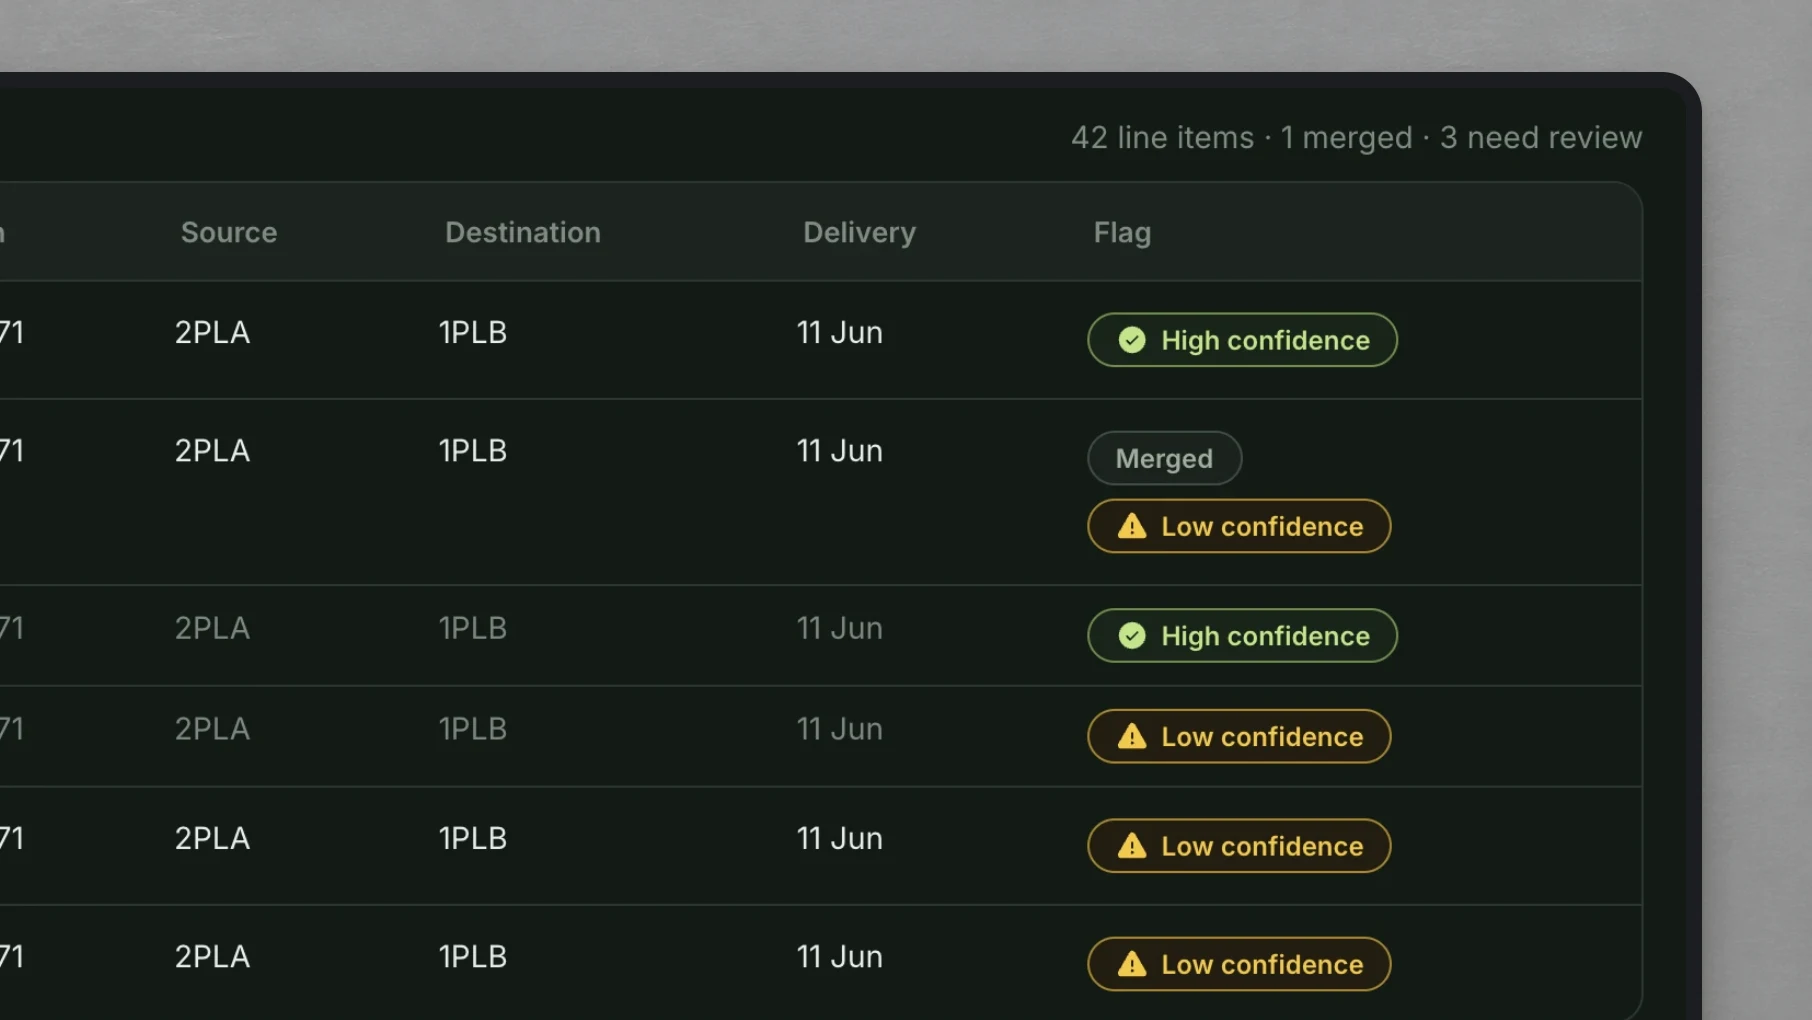
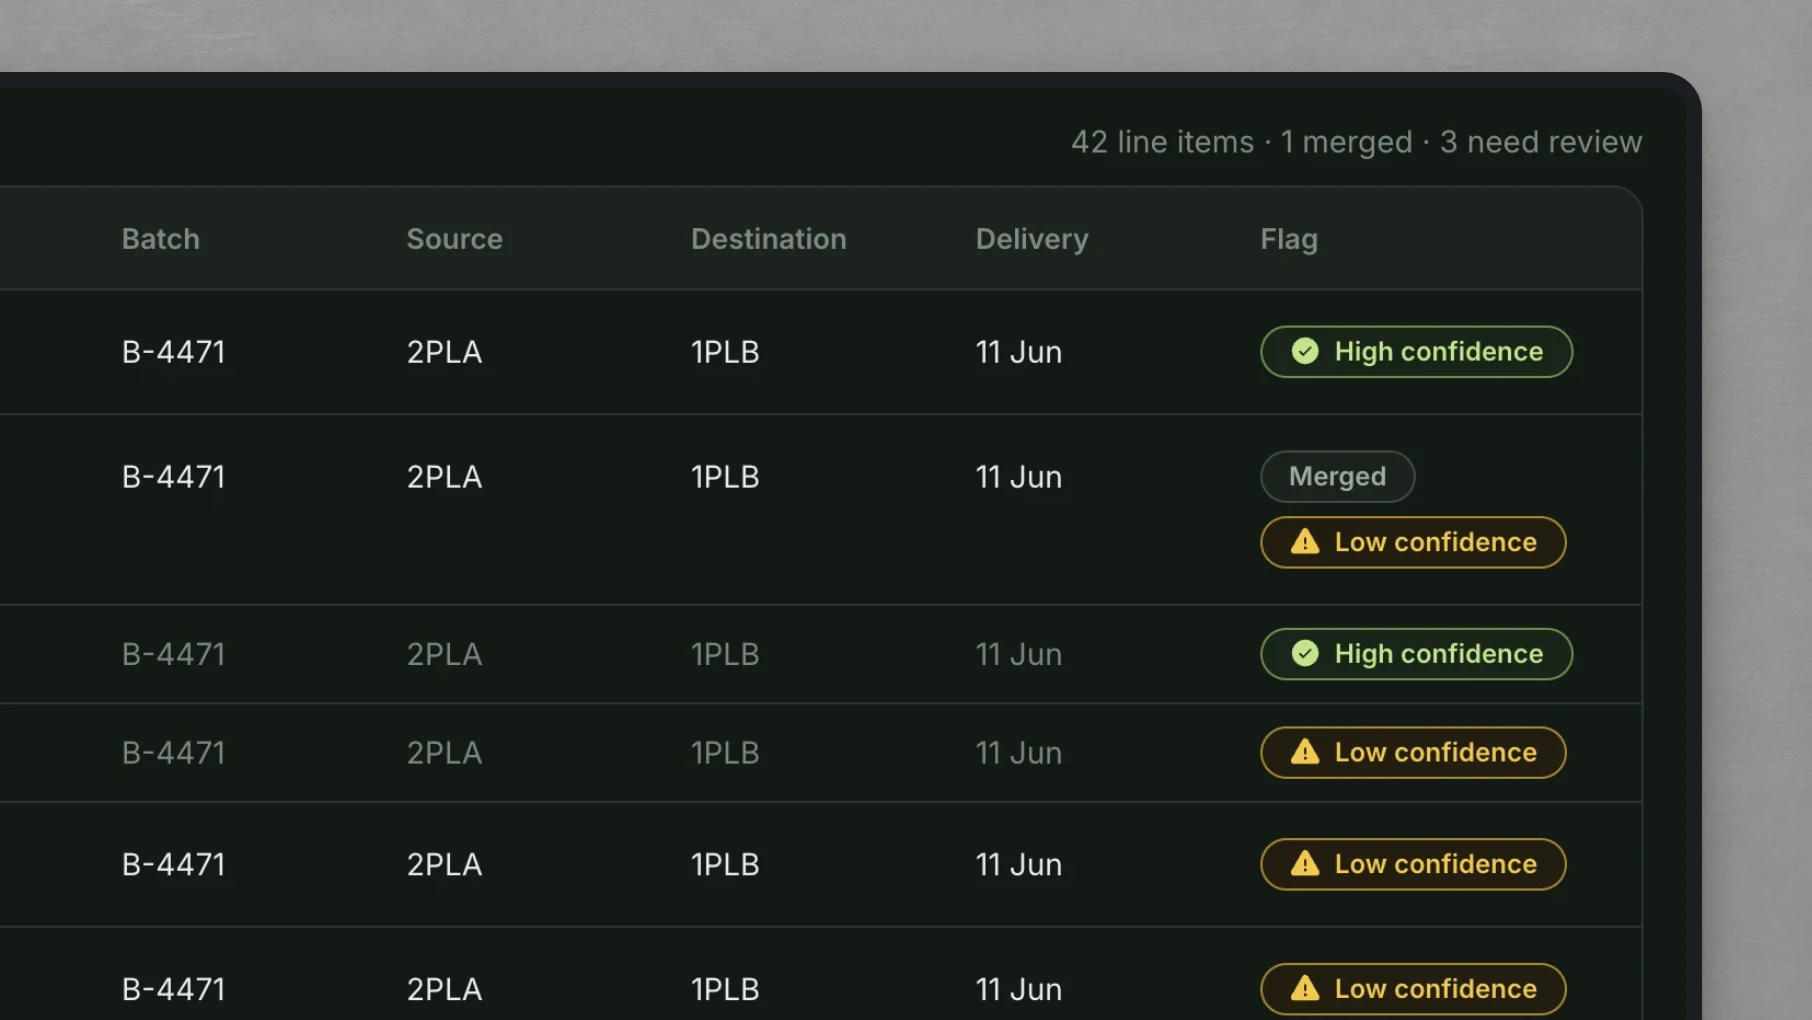
Homepage: the STO card shows the aligned review table
Asset swap. img/sto/card-bench.webp is re-rendered from the review
capture #1145 retook, on the same steel bench, tablet frame and crop, so
the card's headings start where their data does. Same 1812x1020; the
crop now opens on the Batch column rather than cutting it. ?v=2 -> 3.

resting.mjs and states.mjs on index.html pass at 1502 and 472 before
and after; the fast six pass.

diff --git a/index.html b/index.html
@@ -1042,7 +1042,7 @@
 
           <a class="case-card reveal" href="case-study/agentic-sto-approval.html" aria-label="View case study: Where a person checks an AI agent&rsquo;s orders before they reach SAP">
             <div class="case-thumb">
-              <img decoding="async" loading="lazy" src="img/sto/card-bench.webp?v=2" alt="An order an AI agent extracted from email, open for review in dark mode, with a confidence flag on every line." width="1812" height="1020"/>
+              <img decoding="async" loading="lazy" src="img/sto/card-bench.webp?v=3" alt="An order an AI agent extracted from email, open for review in dark mode, with a confidence flag on every line." width="1812" height="1020"/>
             </div>
             <h3>Where a person checks an AI agent&rsquo;s orders before they reach SAP</h3>
             <p class="case-desc">A review screen for AI-extracted orders, designed around what one failed SAP attempt costs.</p>
